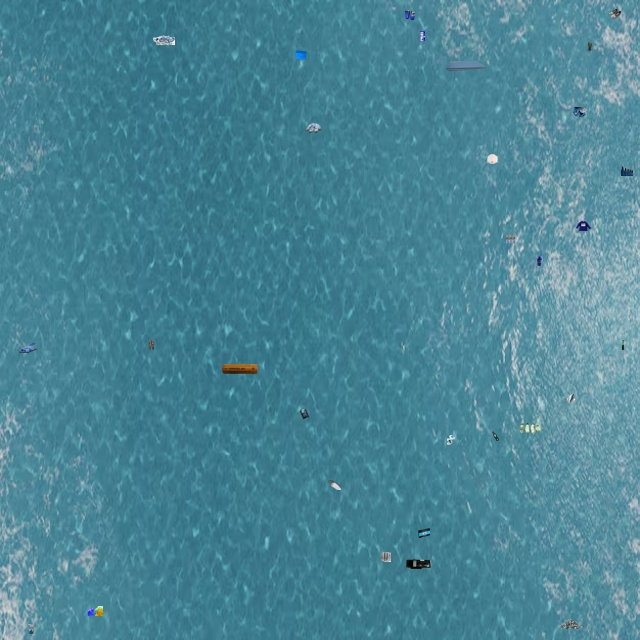
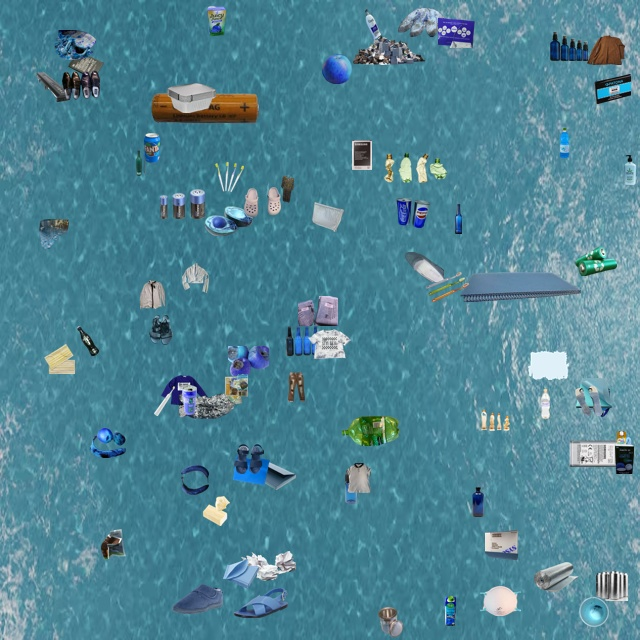
Update testing imgs

diff --git a/synthetic.py b/synthetic.py
@@ -73,14 +73,14 @@ for idx, ocean_img_path in enumerate(ocean_images, start=1):
             original_width, original_height = overlay.size
             scale_factor = 10 / original_height
             new_width = int(original_width * scale_factor)
-            overlay = overlay.resize((new_width, 10))
+            overlay = overlay.resize((new_width, 30))
             
             # Convert overlay to NumPy array
             overlay_np = np.array(overlay)
             
             # Select a random position on the ocean image
             x_offset = random.randint(0, 640 - new_width)
-            y_offset = random.randint(0, 640 - 10)
+            y_offset = random.randint(0, 640 - 30)
             
             # Overlay the image
             ocean_img = overlay_image(ocean_img, overlay_np, x_offset, y_offset)

diff --git a/README.md b/README.md
@@ -36,6 +36,9 @@ To equip Sall-e with the capability to detect marine debris, we employed the YOL
 <img src="src/eval.png" alt="Model Evaluation Metrics" style="width: 80%; max-width: 1000px;">  
 
 <img src="src/loss.png" alt="Model Loss Metrics" style="width: 80%; max-width: 1000px;">  
+
+<img src="src/result.png" alt="Model Evaluation Result" style="width: 80%; max-width: 1000px;">  
+
 ---
 
 ## **Synthetic Testing Image Generation** 📸
@@ -77,6 +80,18 @@ Dependencies Installation:
 
 ---
 
+## **Simulation Testing Environment** 🧪
+
+<img src="testing/testing_1.jpg" alt="Testing 1" style="width: 80%; max-width: 1000px;">  
+
+<img src="testing/testing_2.jpg" alt="Testing 2" style="width: 80%; max-width: 1000px;">  
+
+<img src="testing/testing_3.jpg" alt="Testing 3" style="width: 80%; max-width: 1000px;">  
+
+<img src="testing/testing_4.jpg" alt="Testing 4" style="width: 80%; max-width: 1000px;">  
+
+---
+
 ## **Project Structure** 📁
 ```plaintext
 /dataset/
@@ -95,11 +110,10 @@ Dependencies Installation:
   ├── carton/
   ├── ...
 /testing/
-  ├── synthetic_test_1.jpg
-  ├── synthetic_test_2.jpg
-  ├── synthetic_test_3.jpg
-  ├── synthetic_test_4.jpg
-  ...
+  ├── testing_1.jpg
+  ├── testing_2.jpg
+  ├── testing_3.jpg
+  ├── testing_4.jpg
 /model/
   ├── garbage_detector.pt
 /sample/
